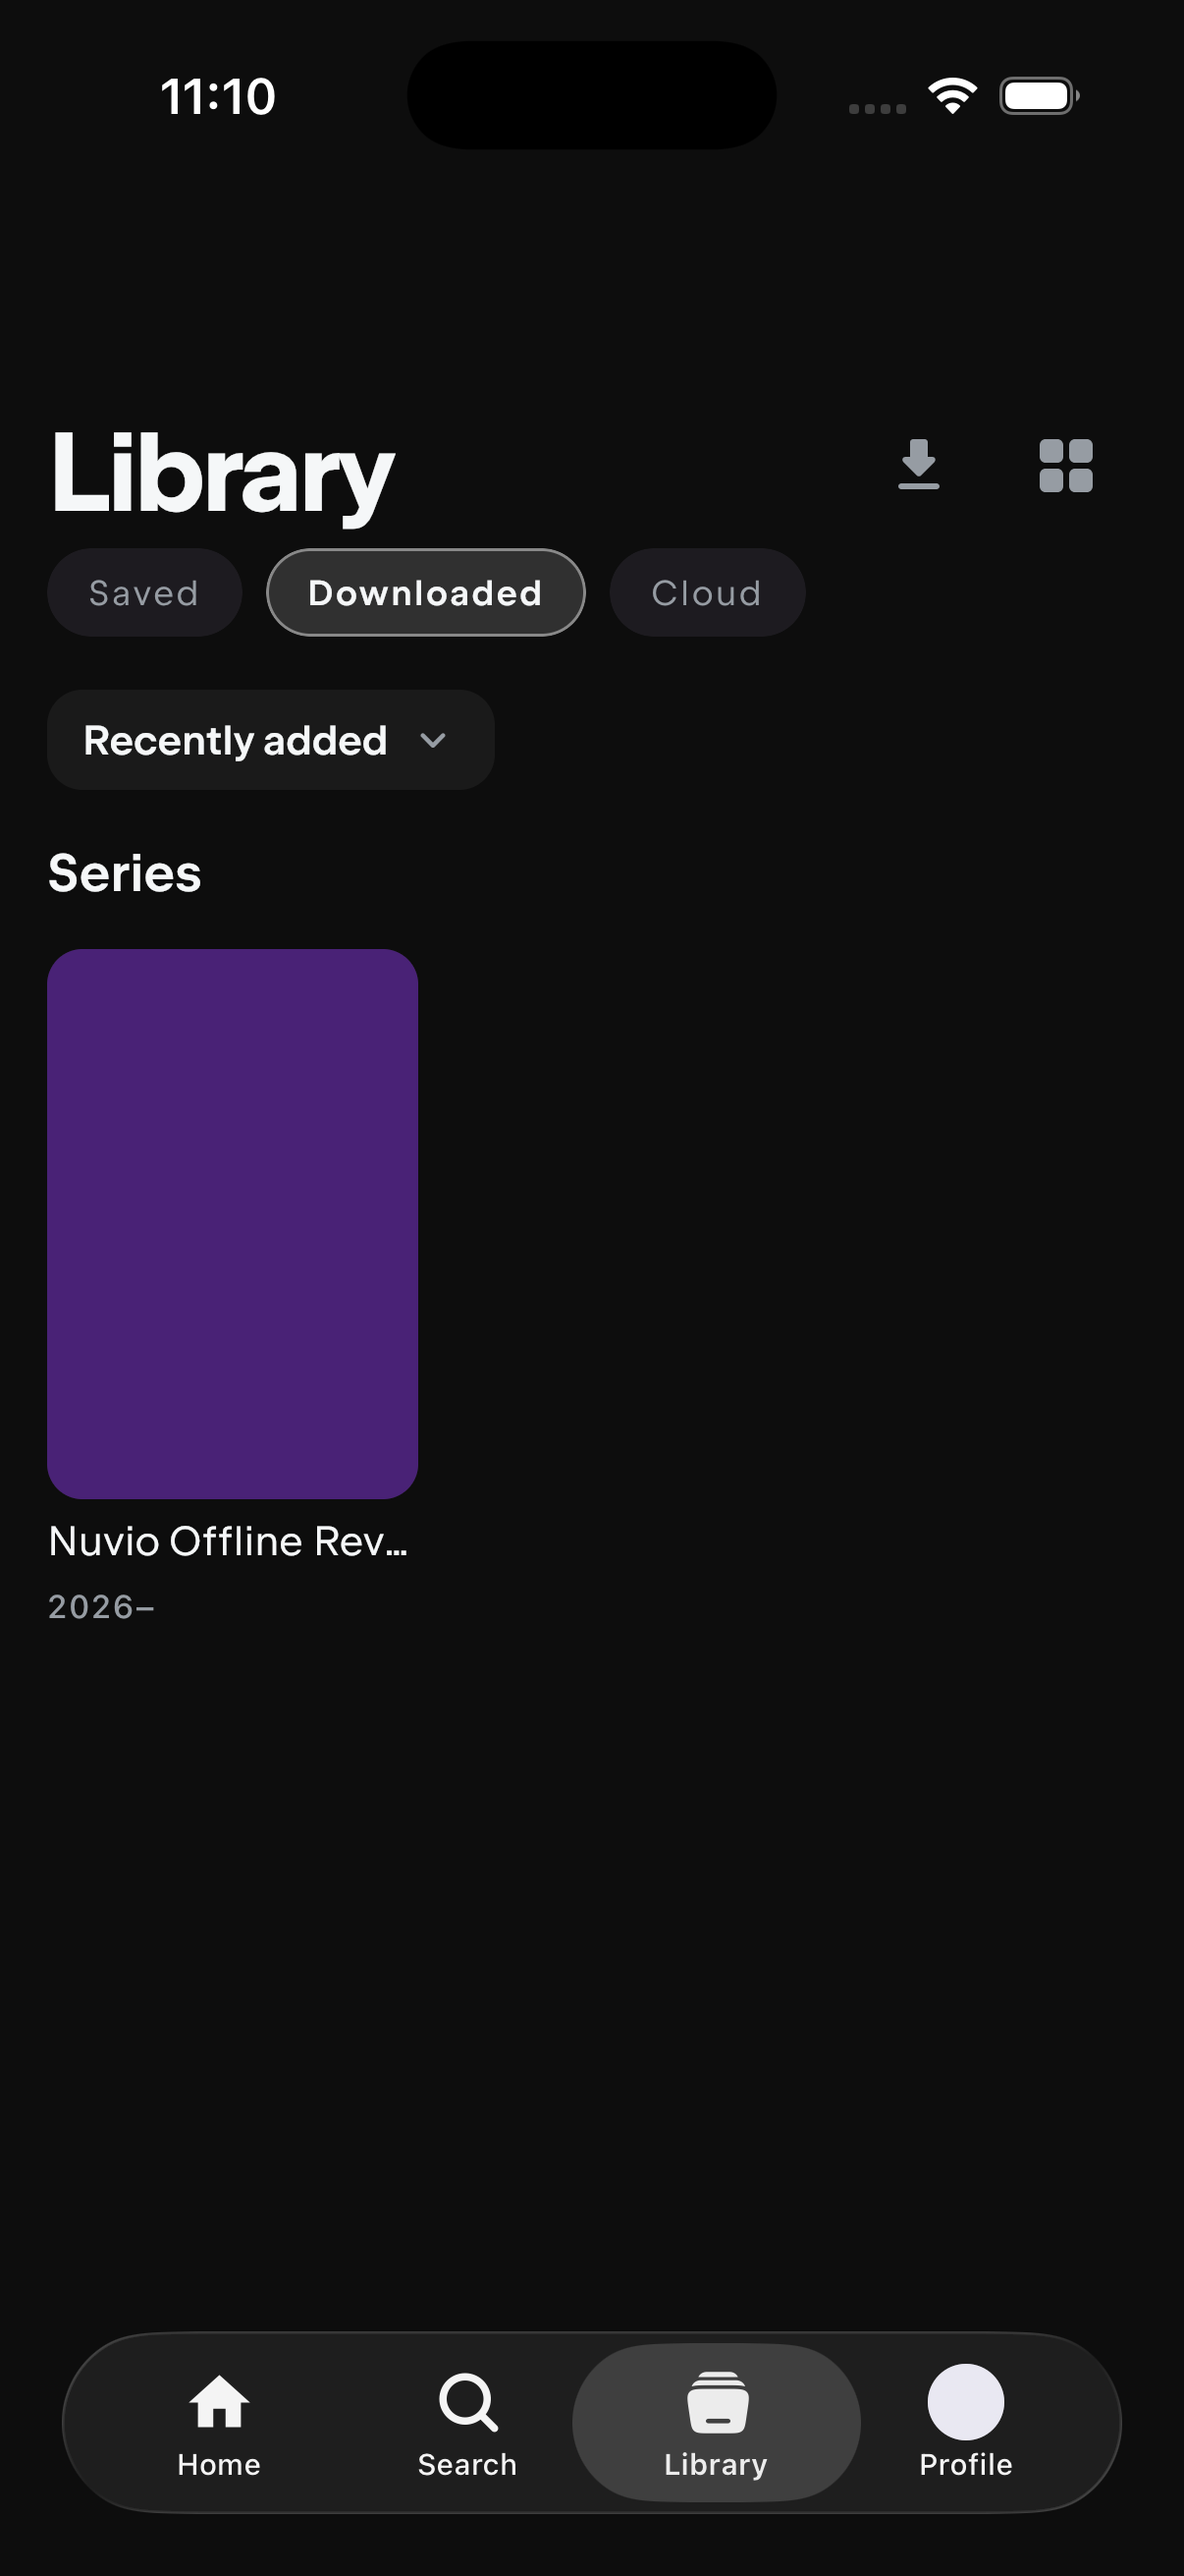
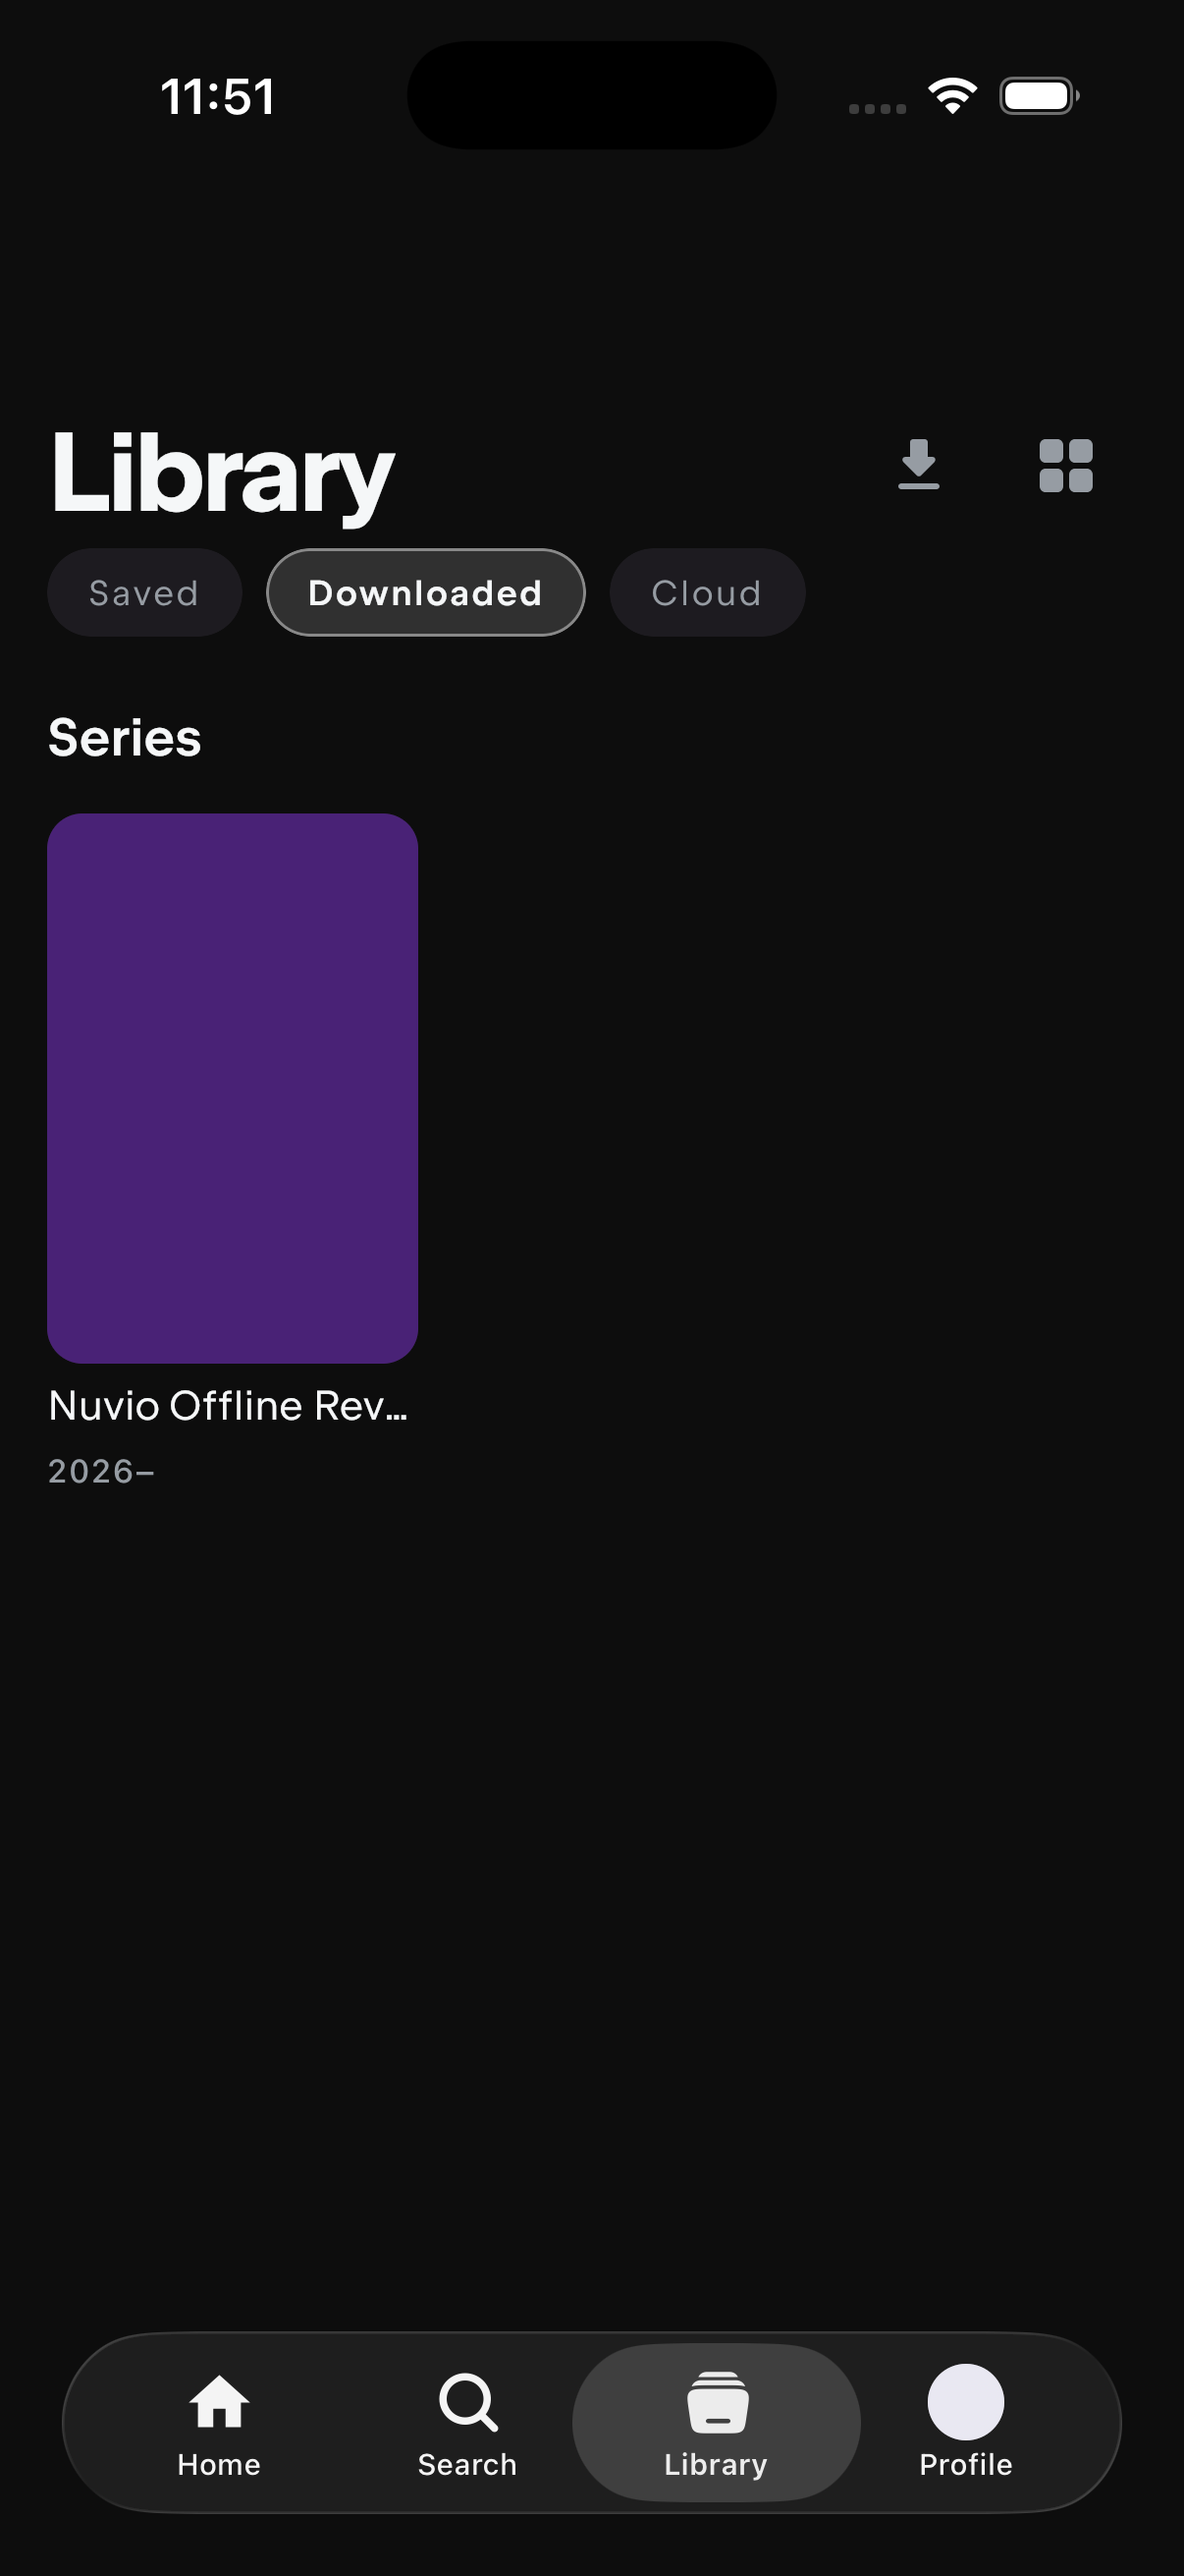
fix(library): simplify downloaded collection controls

Changed region(s): [[0.0307, 0.5252, 0.3682, 0.6487], [0.0307, 0.278, 0.3682, 0.3707], [0.1841, 0.0309, 0.2454, 0.0618]]

diff --git a/composeApp/src/commonMain/kotlin/com/nuvio/app/features/library/LibraryScreen.kt b/composeApp/src/commonMain/kotlin/com/nuvio/app/features/library/LibraryScreen.kt
@@ -150,7 +150,6 @@ fun LibraryScreen(
     var selectedCloudItemKey by rememberSaveable { mutableStateOf<String?>(null) }
     var selectedLibrarySectionKey by rememberSaveable { mutableStateOf<String?>(null) }
     var selectedLibraryType by rememberSaveable { mutableStateOf<String?>(null) }
-    var selectedDownloadedType by rememberSaveable { mutableStateOf<String?>(null) }
     val coroutineScope = rememberCoroutineScope()
     val listState = rememberLazyListState()
     val isRemoteSource = uiState.sourceMode != LibrarySourceMode.LOCAL
@@ -213,28 +212,21 @@ fun LibraryScreen(
             }
             .sortedBy { section -> section.displayTitle }
     }
-    val downloadedSortOption = effectiveLibrarySortOption(
-        selected = displaySettings.sortOption,
-        sourceMode = LibrarySourceMode.LOCAL,
-    )
-    val sortedDownloadedSections = remember(downloadedSections, displaySettings.sortOption) {
+    val downloadedSortOption = LibrarySortOption.ADDED_DESC
+    val sortedDownloadedSections = remember(downloadedSections) {
         sortLibrarySections(
             sections = downloadedSections,
-            selected = displaySettings.sortOption,
+            selected = downloadedSortOption,
             sourceMode = LibrarySourceMode.LOCAL,
         )
     }
-    val downloadedVerticalProjection = remember(
-        downloadedSections,
-        selectedDownloadedType,
-        displaySettings.sortOption,
-    ) {
+    val downloadedVerticalProjection = remember(downloadedSections) {
         buildLibraryVerticalProjection(
             sections = downloadedSections,
             sourceMode = LibrarySourceMode.LOCAL,
             selectedSectionKey = null,
-            selectedType = selectedDownloadedType,
-            sortOption = displaySettings.sortOption,
+            selectedType = null,
+            sortOption = downloadedSortOption,
         )
     }
     val downloadedHorizontalSections = remember(sortedDownloadedSections) {
@@ -421,22 +413,6 @@ fun LibraryScreen(
                         )
                     }
                 } else {
-                    item(
-                        key = "library-downloaded-controls:" +
-                            "${displaySettings.layoutMode}:$downloadedSortOption",
-                    ) {
-                        LibrarySavedControls(
-                            layoutMode = displaySettings.layoutMode,
-                            sourceMode = LibrarySourceMode.LOCAL,
-                            sortOption = downloadedSortOption,
-                            verticalProjection = downloadedVerticalProjection,
-                            onSectionSelected = {},
-                            onTypeSelected = { type -> selectedDownloadedType = type },
-                            onSortSelected = LibraryDisplaySettingsRepository::setSortOption,
-                            modifier = libraryContentTransitionModifier()
-                                .padding(horizontal = 16.dp),
-                        )
-                    }
                     when (displaySettings.layoutMode) {
                         LibraryLayoutMode.HORIZONTAL -> librarySections(
                             displaySections = downloadedHorizontalSections,

diff --git a/composeApp/src/commonTest/kotlin/com/nuvio/app/features/library/LibraryDisplaySettingsTest.kt b/composeApp/src/commonTest/kotlin/com/nuvio/app/features/library/LibraryDisplaySettingsTest.kt
@@ -137,7 +137,7 @@ class LibraryDisplaySettingsTest {
     }
 
     @Test
-    fun `downloaded projection combines type sections and supports the shared grid controls`() {
+    fun `downloaded projection combines all types in recent download order`() {
         val sections = listOf(
             LibrarySection(
                 type = "movie",
@@ -158,14 +158,14 @@ class LibraryDisplaySettingsTest {
             sections = sections,
             sourceMode = LibrarySourceMode.LOCAL,
             selectedSectionKey = null,
-            selectedType = "series",
-            sortOption = LibrarySortOption.TITLE_ASC,
+            selectedType = null,
+            sortOption = LibrarySortOption.ADDED_DESC,
         )
 
         assertEquals(emptyList(), projection.availableSections)
         assertEquals(listOf("movie", "series"), projection.availableTypes)
-        assertEquals("series", projection.selectedType)
-        assertEquals(listOf("series-a", "series-z"), projection.entries.map { it.item.id })
+        assertEquals(null, projection.selectedType)
+        assertEquals(listOf("series-a", "series-z", "movie"), projection.entries.map { it.item.id })
     }
 
     @Test

diff --git a/F02-POLISH-REVIEW.md b/F02-POLISH-REVIEW.md
@@ -10,9 +10,9 @@ This follow-up starts from `08dee1be78dfa8032d3b860e0a0be2b40b729897` on `codex/
 - Existing downloaded titles are reconciled against the expanded artwork plan. A record produced by the earlier build becomes artwork-incomplete when cast photos are missing, then performs the existing artwork-only refresh the next time Home or Library is online. The title and media do not need to be downloaded again.
 - Offline details resolve each cached cast photo to its local file. Missing or failed photos continue to use the existing remote URL and artwork retry policy.
 - Saved Library items reuse verified local poster, backdrop, and logo files from a matching downloaded title. The Saved item keeps its original ID, type, and navigation data.
-- Downloaded uses the same horizontal shelves and vertical poster grid as Saved, including the top-right layout control, type filter, and sort control. Movies and series remain separate shelves in horizontal mode, while the vertical view can show all types or one type.
+- Downloaded uses the same horizontal shelves and vertical poster grid as Saved, including the top-right layout control. It omits Saved's filter and sort row because downloaded collections are intentionally small. Movies and series remain separate shelves in horizontal mode, while the vertical view combines every downloaded title in recent-download order.
 - The Downloaded tab now keeps `Library` as the screen title and no longer adds another `Downloaded` heading below the source selector.
-- Saved and Downloaded keep independent type-filter selections while sharing the persisted layout and sort preferences.
+- Saved keeps its persisted filter and sort preferences. Downloaded shares only the persisted horizontal or vertical layout preference.
 
 ## Validation
 
@@ -22,10 +22,10 @@ This follow-up starts from `08dee1be78dfa8032d3b860e0a0be2b40b729897` on `codex/
 | Focused iOS simulator suite | 3 suites, 29 tests, 0 failures, 0 errors, 0 skipped |
 | Default iOS player regression harness | Passed |
 | Fresh iOS simulator app build | Passed |
-| iOS simulator Library runtime review | `Library` header, Downloaded horizontal shelves, layout button, and Downloaded vertical grid verified |
+| iOS simulator Library runtime review | `Library` header, Downloaded horizontal shelves, layout button, clean control-free content area, and Downloaded vertical grid verified |
 | Diff whitespace check | Passed |
 
-The focused tests cover the bounded cast artwork plan, automatic reconciliation of records created by an older build, local artwork reuse by matching Saved items, Downloaded type filtering and sorting, and the native iOS artwork filesystem implementation.
+The focused tests cover the bounded cast artwork plan, automatic reconciliation of records created by an older build, local artwork reuse by matching Saved items, Downloaded combined-grid ordering, and the native iOS artwork filesystem implementation.
 
 ## Visual evidence
 
@@ -41,7 +41,7 @@ After, Downloaded keeps the Library title and supports the shared horizontal she
 
 ## Physical-device review
 
-After installing the updated build, open Home or Library once while online. Existing downloads with cast metadata will fetch their missing cast images through the normal background artwork refresh. Then disconnect and verify the cast row, Saved poster, Downloaded horizontal shelves, and Downloaded vertical grid. Cast members without a source photo will continue to show the ordinary placeholder.
+After installing the updated build, open Home or Library once while online. Existing downloads with cast metadata will fetch their missing cast images through the normal background artwork refresh. Then disconnect and verify the cast row, Saved poster, Downloaded horizontal shelves, and Downloaded vertical grid without a filter row. Cast members without a source photo will continue to show the ordinary placeholder.
 
 ## Rollback
 
